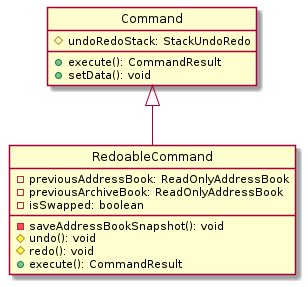
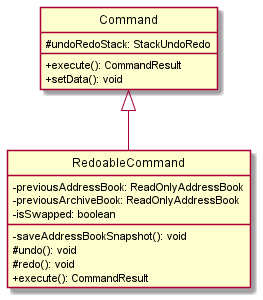
Fix code and diagrams

Changed region(s): [[0.0, 0.0, 1.0, 1.0]]

diff --git a/src/main/java/seedu/address/logic/commands/StackUndoRedo.java b/src/main/java/seedu/address/logic/commands/StackUndoRedo.java
@@ -1,6 +1,9 @@
 package seedu.address.logic.commands;
 
 import java.util.Stack;
+import java.util.logging.Logger;
+
+import seedu.address.commons.core.LogsCenter;
 
 /**
  * @@author zhixianggg reused
@@ -9,6 +12,7 @@ import java.util.Stack;
  */
 
 public class StackUndoRedo {
+    private static final Logger logger = LogsCenter.getLogger(StackUndoRedo.class);
     private Stack<RedoableCommand> undoStack;
     private Stack<RedoableCommand> redoStack;
 
@@ -26,35 +30,15 @@ public class StackUndoRedo {
      */
     public void push(Command command) {
 
-        if (isNotRedoableCommand(command)) {
-            return;
-        }
-
-        if (isNotUndoRedoCommand(command)) {
+        if (!(command instanceof UndoCommand) && !(command instanceof RedoCommand)) {
             redoStack.clear();
         }
 
-        undoStack.add((RedoableCommand) command);
-    }
-
-    /**
-     * Returns true if the command is not redoable or undoable.
-     */
-    public boolean isNotRedoableCommand(Command command) {
         if (!(command instanceof RedoableCommand)) {
-            return true;
+            return;
         }
-        return false;
-    }
 
-    /**
-     * Returns true if the command is either an undo command or a redo command.
-     */
-    public boolean isNotUndoRedoCommand(Command command) {
-        if (!(command instanceof UndoCommand) && !(command instanceof RedoCommand)) {
-            return true;
-        }
-        return false;
+        undoStack.add((RedoableCommand) command);
     }
 
     /**
@@ -63,15 +47,17 @@ public class StackUndoRedo {
     public RedoableCommand popUndo() {
         RedoableCommand toUndo = undoStack.pop();
         redoStack.push(toUndo);
+        logger.info(this.toString());
         return toUndo;
     }
 
     /**
-     * Pops and returns the next {@code RedoableCommand} to be redone in the stack.
+     * Pops and returns the next {@code UndoableCommand} to be redone in the stack.
      */
     public RedoableCommand popRedo() {
         RedoableCommand toRedo = redoStack.pop();
         undoStack.push(toRedo);
+        logger.info(this.toString());
         return toRedo;
     }
 
@@ -106,5 +92,19 @@ public class StackUndoRedo {
         // state check
         return undoStack.equals(stack.undoStack)
                 && redoStack.equals(stack.redoStack);
+    }
+
+    @Override
+    public String toString() {
+        StringBuilder s = new StringBuilder();
+        s.append("Undo Stack: \n");
+        for (RedoableCommand command : undoStack) {
+            s.append(command.getClass().getSimpleName()).append(" ");
+        }
+        s.append("\nRedo Stack: \n");
+        for (RedoableCommand command : redoStack) {
+            s.append(command.getClass().getSimpleName()).append(" ");
+        }
+        return s.toString();
     }
 }

diff --git a/src/main/java/seedu/address/logic/commands/RedoableCommand.java b/src/main/java/seedu/address/logic/commands/RedoableCommand.java
@@ -14,7 +14,8 @@ import seedu.address.model.ReadOnlyAddressBook;
 public abstract class RedoableCommand extends Command {
 
     private ReadOnlyAddressBook previousAddressBook;
-
+    private ReadOnlyAddressBook previousArchiveBook;
+    private boolean isSwapped;
     protected abstract CommandResult executeUndoableCommand(Model model) throws CommandException;
 
     /**
@@ -23,6 +24,8 @@ public abstract class RedoableCommand extends Command {
     private void saveAddressBookSnapshot(Model model) {
         requireNonNull(model);
         this.previousAddressBook = new AddressBook(model.getAddressBook());
+        this.previousArchiveBook = new AddressBook(model.getArchiveBook());
+        this.isSwapped = model.isSwapped();
     }
 
     /**
@@ -33,7 +36,7 @@ public abstract class RedoableCommand extends Command {
     protected final void undo(Model model) {
         requireAllNonNull(model, this.previousAddressBook);
 
-        model.setAddressBook(this.previousAddressBook);
+        model.setSwappedAddressBook(this.isSwapped, this.previousAddressBook, this.previousArchiveBook);
 
         model.updateFilteredPersonList(Model.PREDICATE_SHOW_ALL_PERSONS);
     }
@@ -44,14 +47,12 @@ public abstract class RedoableCommand extends Command {
      */
     protected final void redo(Model model) {
         requireNonNull(model);
-
         try {
             executeUndoableCommand(model);
         } catch (CommandException ce) {
             throw new AssertionError("The command has been successfully executed previously; "
                     + "it should not fail now");
         }
-
         model.updateFilteredPersonList(Model.PREDICATE_SHOW_ALL_PERSONS);
     }
 

diff --git a/src/main/java/seedu/address/logic/commands/UndoCommand.java b/src/main/java/seedu/address/logic/commands/UndoCommand.java
@@ -12,7 +12,7 @@ public class UndoCommand extends Command {
 
     public static final String COMMAND_WORD = "undo";
     public static final String MESSAGE_USAGE_SUCCESS = "Undo success!";
-    public static final String MESSAGE_USAGE_FAILURE = "Unable to perform undo!";
+    public static final String MESSAGE_USAGE_FAILURE = "No more commands to undo!";
 
     @Override
     public CommandResult execute(Model model) throws CommandException {
@@ -20,10 +20,14 @@ public class UndoCommand extends Command {
 
         if (!undoRedoStack.canUndo()) {
             throw new CommandException(MESSAGE_USAGE_FAILURE);
-        } else {
-            undoRedoStack.popUndo().undo(model);
-            return new CommandResult(MESSAGE_USAGE_SUCCESS);
         }
+
+        RedoableCommand command = undoRedoStack.popUndo();
+        if (command instanceof SwitchCommand) {
+            return new CommandResult(MESSAGE_USAGE_SUCCESS, false, false, false, false, false, true);
+        }
+        command.undo(model);
+        return new CommandResult(MESSAGE_USAGE_SUCCESS);
     }
 
     @Override

diff --git a/src/main/java/seedu/address/logic/commands/RedoCommand.java b/src/main/java/seedu/address/logic/commands/RedoCommand.java
@@ -21,11 +21,15 @@ public class RedoCommand extends Command {
 
         if (!undoRedoStack.canRedo()) {
             throw new CommandException(MESSAGE_FAILURE);
-        } else {
-            undoRedoStack.popRedo().redo(model);
-            return new CommandResult(MESSAGE_SUCCESS);
-
         }
+
+        RedoableCommand command = undoRedoStack.popRedo();
+        if (command instanceof SwitchCommand) {
+            model.updateFilteredPersonList(Model.PREDICATE_SHOW_ALL_PERSONS);
+            return new CommandResult(MESSAGE_SUCCESS, false, false, false, false, false, true);
+        }
+        command.redo(model);
+        return new CommandResult(MESSAGE_SUCCESS);
     }
 
     @Override
